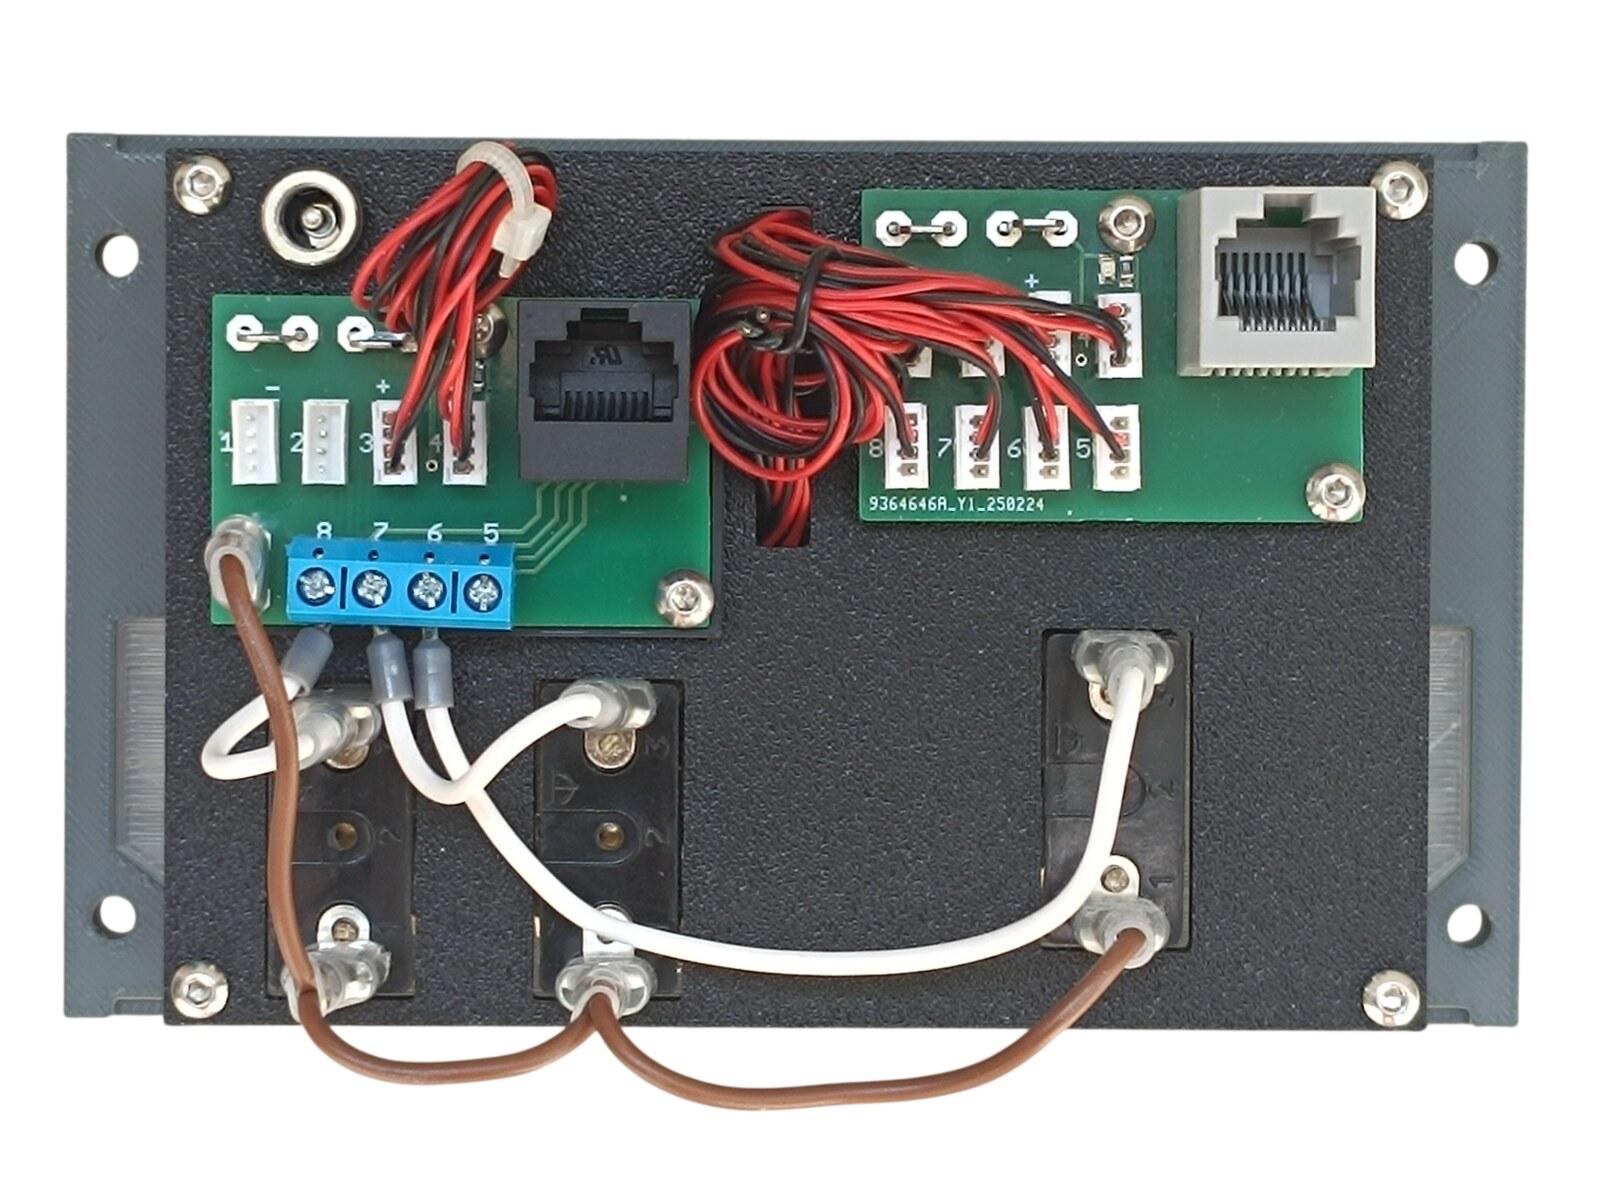
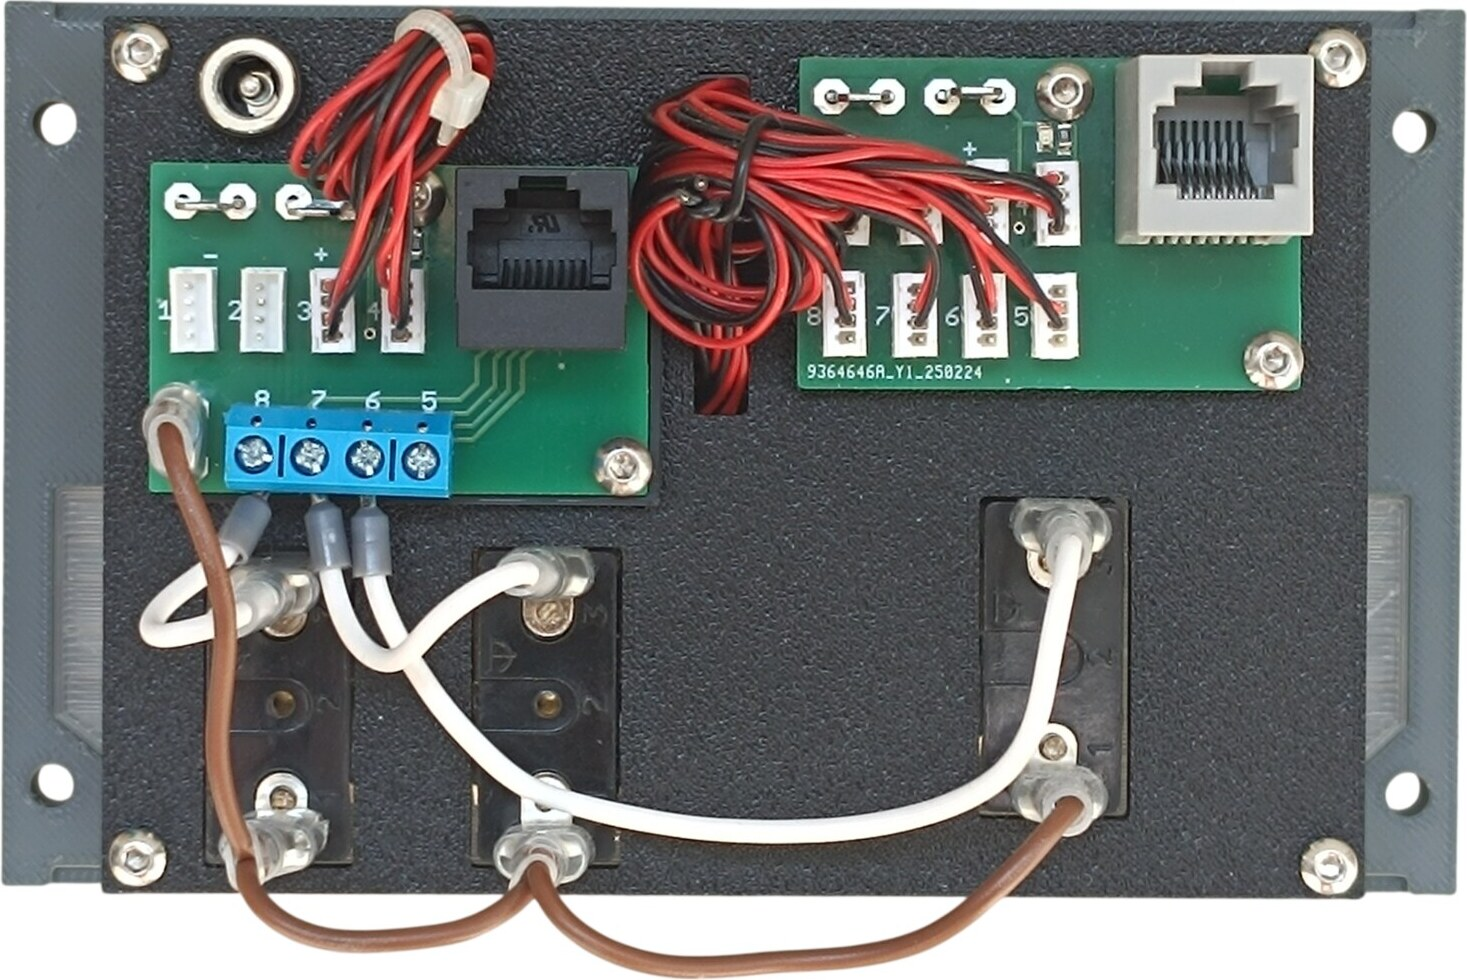
Lay the panel photos out without a table and trim their white borders
The two-column table left large empty areas, and the photos themselves
were mostly white background - the Door Warning front photo used only
15% of its own area. Trim the borders and stack the photos with a
caption under each.

diff --git a/docs/panels/09-anti-ice-panel.md b/docs/panels/09-anti-ice-panel.md
@@ -8,16 +8,21 @@
 
 ## Photos
 
-<table>
-<tr>
-<td align="center" width="50%"><img src="../../images/panels/09-anti-ice-photo-1-front.jpg" alt="Finished Anti-ice Panel, front"><br><sub>Finished panel</sub></td>
-<td align="center" width="50%"><img src="../../images/panels/09-anti-ice-photo-2-top-panel.jpg" alt="Printed top panel"><br><sub>Printed top panel</sub></td>
-</tr>
-<tr>
-<td align="center" width="50%"><img src="../../images/panels/09-anti-ice-photo-3-diffuser.jpg" alt="Diffuser panel fitted"><br><sub>Diffuser panel fitted, before the top panel goes on</sub></td>
-<td align="center" width="50%"><img src="../../images/panels/09-anti-ice-photo-4-rear.jpg" alt="Rear of the panel with PCBs and wiring"><br><sub>Rear side — PCBs, wiring and DC jack</sub></td>
-</tr>
-</table>
+<img src="../../images/panels/09-anti-ice-photo-1-front.jpg" alt="Finished Anti-ice Panel, front" width="700">
+
+*Finished panel*
+
+<img src="../../images/panels/09-anti-ice-photo-2-top-panel.jpg" alt="Printed top panel" width="700">
+
+*Printed top panel*
+
+<img src="../../images/panels/09-anti-ice-photo-3-diffuser.jpg" alt="Diffuser panel fitted" width="700">
+
+*Diffuser panel fitted, before the top panel goes on*
+
+<img src="../../images/panels/09-anti-ice-photo-4-rear.jpg" alt="Rear of the panel with PCBs and wiring" width="700">
+
+*Rear side — PCBs, wiring and DC jack*
 
 ---
 

diff --git a/docs/panels/06-door-warning-panel.md b/docs/panels/06-door-warning-panel.md
@@ -8,12 +8,13 @@
 
 ## Photos
 
-<table>
-<tr>
-<td align="center" width="50%"><img src="../../images/panels/06-door-warning-photo-1-front.jpg" alt="Finished Door Warning Panel, front"><br><sub>Finished panel</sub></td>
-<td align="center" width="50%"><img src="../../images/panels/06-door-warning-photo-2-rear.jpg" alt="Rear of the panel with the two PCBs"><br><sub>Rear side — the two PCBs and wiring</sub></td>
-</tr>
-</table>
+<img src="../../images/panels/06-door-warning-photo-1-front.jpg" alt="Finished Door Warning Panel, front" width="700">
+
+*Finished panel*
+
+<img src="../../images/panels/06-door-warning-photo-2-rear.jpg" alt="Rear of the panel with the two PCBs" width="700">
+
+*Rear side — the two PCBs and wiring*
 
 ---
 
